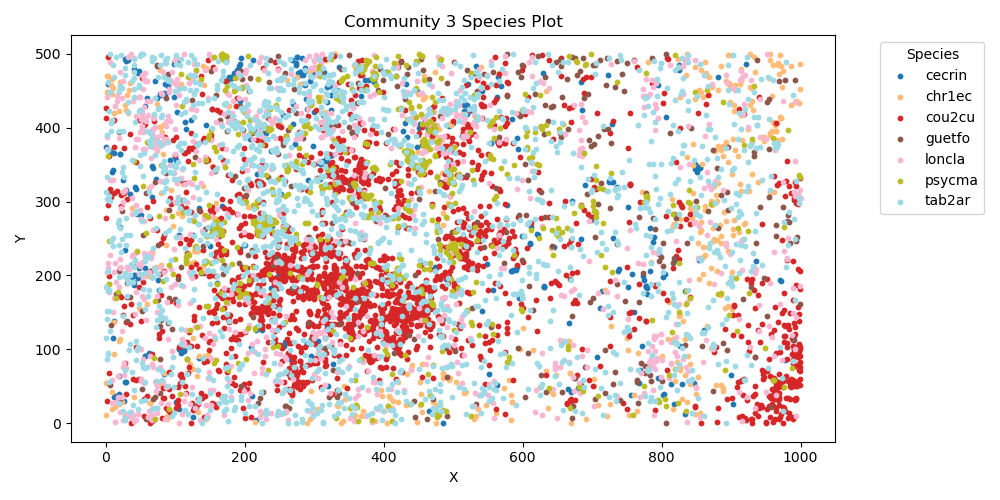
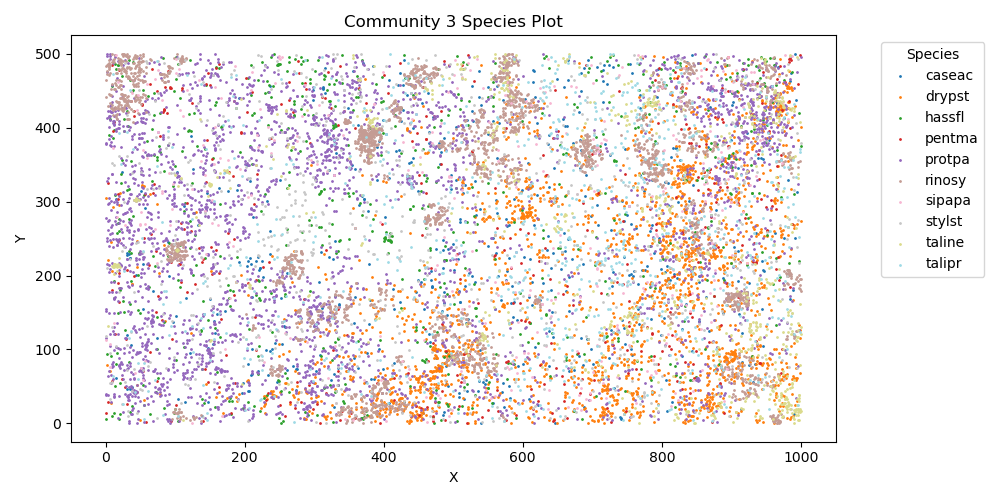
better plots

diff --git a/src/plotting.py b/src/plotting.py
@@ -846,7 +846,7 @@ def plot_community_data(
                 species_data['x'], species_data['y'],
                 label=species_name,
                 color=colors(i),
-                s=10
+                s=1
             )
 
     # Labels, legend, etc.
@@ -863,4 +863,59 @@ def plot_community_data(
 
     print(f"Plot for Community {community_id} saved to {plot_file}")
 
+def plot_corr_with_communities(
+    corr_matrix,
+    communities,
+    outfile,
+    cmap=None,
+    vmin=-0.5,
+    vmax=0.5,
+    show=False
+):
+    """
+    Plot a *single* filtered correlation matrix reordered by community
+    and draw boxes around communities.
+    """
+    from src.compute import get_community_bounds
+    if cmap is None:
+        cmap = cmocean.cm.balance
 
+    # Sort indices by community label
+    order = np.argsort(communities)
+    corr_reordered = corr_matrix[np.ix_(order, order)]
+
+    # Prepare figure
+    plt.figure(figsize=(7, 6))
+    norm = mcolors.TwoSlopeNorm(vmin=vmin, vcenter=0, vmax=vmax)
+
+    # Plot matrix
+    im = plt.imshow(corr_reordered, cmap=cmap, norm=norm)
+    plt.title(f"Filtered Correlation Matrix\n({len(np.unique(communities))} communities)")
+    plt.xlabel("Species (reordered)")
+    plt.ylabel("Species (reordered)")
+
+    # Determine boundaries
+    bounds = get_community_bounds(communities[order])
+
+    # Draw community boundary boxes
+    for b0, b1 in zip(bounds[:-1], bounds[1:]):
+        size = b1 - b0
+        rect = patches.Rectangle(
+            (b0, b0), size, size,
+            fill=False, linewidth=1.5, linestyle='--', edgecolor='black'
+        )
+        plt.gca().add_patch(rect)
+
+    # Add colorbar
+    plt.colorbar(im, label="Correlation", fraction=0.046, pad=0.04)
+
+    # Save
+    os.makedirs(os.path.dirname(outfile), exist_ok=True)
+    plt.savefig(outfile, dpi=300, bbox_inches="tight")
+
+    if show:
+        plt.show()
+    else:
+        plt.close()
+
+    print(f"Filtered correlation matrix with communities saved to:\n{outfile}")

diff --git a/scripts/communities.py b/scripts/communities.py
@@ -10,7 +10,8 @@ from src.compute import (
         )
 from src.plotting import (
     plot_community_dendrogram,
-    plot_community_data
+    plot_community_data,
+    plot_corr_with_communities
     )
 from src.utils import load_forest_data
 
@@ -23,7 +24,7 @@ census_template = config['forests']['templates']['census_template']
 names_template = config['forests']['templates']['names_template']
 
 # Parameters
-resolution = 10
+resolution = 5
 print(f'Testing for resolution {resolution} m ')
 n_comms_forest = 10
 method = 'ward'
@@ -104,4 +105,15 @@ for community_id, species_list in communities.items():
     
     # Plot and save the community data
     plot_community_data('barro', 4, community_id, species_indices)
+
+# Plot community matrix
+outfile = os.path.join(output_dir, f"filtered_corr_reordered_{method}.png")
+
+plot_corr_with_communities(
+    filtered_forest_corr,
+    forest_fcluster,
+    outfile=outfile,
+    show=True
+)
+
 
